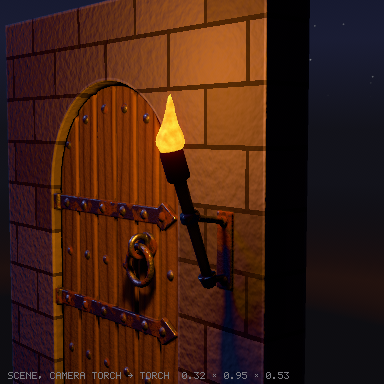
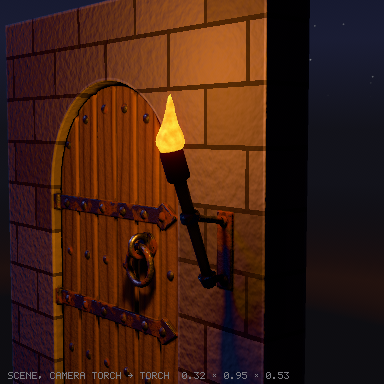
Regenerate the renders the three stage 5 branches touch together, and record their blind re-read
The wear branch rubs worn metal to satin scuffs, the engrave branch dims a
light's highlight where the field bends, and the teapot branch opens the spout
and joins the handle. Each regenerated its own renders against the renderer it
started from, so the lantern, the door's three shots and the teapot are drawn
again here under all three changes at once; every other render came out byte
for byte as the branches committed it.

design.md's "Read blind" now records the re-read of each answer: the door's
studs and ring read as one old rusty iron with its straps, the lantern reads
old and rusting but its flat iron, the roof above all, is still light and
silvery, and the ring's FOREVER is darker marks but no letters on either
side. The text() sentence there is in the past tense, since 55de603 fixed it.
The roadmap's round 12 paragraph says what was answered and what stays open,
and three defects the tracks found and left are listed among the smaller
items. The guide and skill gain a row for a part lost among a polished
bowl's reflections, measured on the mixer at rough 0.4.

Claude-Session: https://claude.ai/code/session_018T6HA68DSEEiuDRQLT4RUV

diff --git a/docs/design.md b/docs/design.md
@@ -1233,9 +1233,10 @@ Both renders shared some misreadings: the hardware chain's six links
 read as four, the ring's chrome inlay as a reflection and its round cup
 as a box, the teapot's capped handle as an open tube, the door's walnut
 torch handle as black iron, the medal's brass letters as gold, and the
-straw below the drink was not seen at all. One shared misreading is the
-language's, not the renderer's: both show the medal's lower legend
-mirror-reversed, because that is what `text()` builds on a negative arc.
+straw below the drink was not seen at all. One shared misreading was the
+language's, not the renderer's: both showed the medal's lower legend
+mirror-reversed, because that is what `text()` built on a negative arc
+until 55de603, which bends it upright and left to right.
 Two of the teapot's answers were about its model, not the renderer: its
 handle stopped short of the pot, so the free, flat end the reader took
 for an open tube was there to be seen, and its spout, which the reader
@@ -1258,8 +1259,43 @@ before the legibility pass, had read the same frame as white enamel. No
 count or lettering was read wrongly from the new render alone, and the
 one count that differed between the two, the bands on the tumbler's
 straw, the new render got right. The two pairs and the lantern's iron
-are left open; the plan's next step for legibility is a dogfooding round
+were left open; the plan's next step for legibility is a dogfooding round
 that judges the renders.
+
+Three of the misses were answered before that round, and the models they
+touch were read blind again the same way, each pair setting the render
+at 67ba88d against the answer's:
+
+- **Worn metal** (the lantern and the door). `wear` now rubs a metal's
+  edge to satin and breaks it into scuffs, fewer on a thin part ("The
+  finish, and the maps that carry it"). Nothing was read wrongly from the new
+  render alone. The door's studs and knocker ring, read as "clean,
+  polished or oiled" and "newer" than the straps at 67ba88d, now read as
+  one old rusty iron with them. The lantern reads old and rusting all
+  over, its frame one metal and "much less chrome-like", but its bare
+  metal is "still bright and silvery", hedged as rusted steel or
+  galvanised. That is the flat faces, which wear never touches: the roof,
+  the largest iron in the picture, is the rust preset's dark iron
+  (F0 0.20, rough 0.55) taking the studio's overhead strip, and is as
+  light at wear 0. The lantern's iron is still open.
+- **The faint engraving** (the ring, with the medal and the nameplate as
+  controls). A light's highlight now takes the cavity term where the
+  field bends ("The BRDF is the viewer's"), so a groove's lips stop
+  glinting. Every changed pixel in the three pairs got darker. The
+  lettering read as well on both sides of every pair: AIXLE MODELS / FOR
+  MACHINES 22 of 22, Ada Lovelace / Analyst 18 of 18, and the ring's
+  FOREVER 0 of 7 on both. Nothing was read wrongly from the new render
+  alone. The ring's inscription is about 50 by 5 pixels at 384, its
+  strokes 1.75 cells wide: darker marks, but not letters. The reader,
+  forced to choose, preferred the old side's thinner marks, and on the
+  nameplate offered "black infill" for grooves that are bare brass, which
+  is the risk of an engraving that reads as dark marks. The guide's row
+  for sparkling letters gives a satin finish or strokes about three cells
+  wide, measured on the ring.
+- **The teapot** is the model's fix described above.
+
+The mixer's beater among its bowl's reflections is not a renderer fault:
+a bowl at `rough` 0.2 mirrors what it holds. The guide has a row for it.
 
 ## Minecraft geometry
 

diff --git a/docs/agent-guide.md b/docs/agent-guide.md
@@ -216,6 +216,7 @@ mesh; `--no-cache` samples afresh.
 | chrome, silver or steel reads near white | `overcast` is a white sky all round, with no dark room for a mirror to show (steel near white on faces turned up) | the `studio`, `sunset` or `night` for a mirror metal, or a rougher one |
 | metal lettering, or a metal face turned to the camera, reads dark, nearly black | a metal face turned to the camera mirrors the dark room behind the camera (the patterns plate's iron labels were lost on their dark board) | paint the letters a non-metal (the plate's are porcelain now), or turn the face towards the light |
 | a polished engraving is faint, read only at its edges, or its letters sparkle | a polished face and the floor of its letters mirror the same room, so only the walls and the cavity term (the field's occlusion within about six cells, which dims the reflections in a groove and the lights' highlights on its lips and corners) set the letters apart; a lip out in the open that faces a light still glints | `rough=0.2` or more, or cut the letters deeper; letters that sparkle want a satin finish or bolder strokes, not a deeper cut: round 10's ring's gold FOREVER, strokes 1.75 cells wide and 2.9 deep, sparkled at gold's `rough` of 0.3 and read as dark letters at `material("gold", rough=0.5)` or with strokes 2.9 cells wide (larger letters if their counters close), and cut twice as deep it read as before |
+| a part inside a polished bowl or tray is hard to pick out | a polished curved wall mirrors what it holds and the room round it, so the part stands among copies of itself (round 11's mixer: its beater among the reflections of its steel bowl at `rough=0.2`) | that is the metal reading as metal; a satin finish blurs the copies away, and at `material("steel", rough=0.4)` the mixer's beater, its shaft and its hub read on their own against the bowl; or judge the part from a `camera(..., focus="beater")` shot |
 | a point light's pool on a wall or the floor is wider than expected | its strength halves `range` away in linear light, which shows wider than the old renderer's pool did (a torch lights more of a wall) | a `range` about the size of what it should light, and more `power` to keep the near side as lit; its sphere is 0.02 × `range` × `size`, so raise `size` as `range` falls to keep its shadows as soft (the lantern's flame: `range=0.8, size=1.75, power=1.6`) |
 | a soft shadow is too hard or too soft | a light's `size` is an angle: its angular radius is size/18 radians (1 about 3.2 degrees, 3 about 9.5), and that one angle softens its shadow, widens its highlight and sizes its softbox in a mirror; a point light is a sphere whose radius is 2% of its `range` per unit of size | a larger `size` for a softer shadow (3 a window), a smaller one for a harder (0.5 a lamp); a shadow hardens anyway where a part meets the floor |
 | a plan shot's blind holes read as domes or bumps | a hole lit from the frame's bottom reads as a dome: people see a picture as lit from above (round 10's hub, whose plan shot keeps its own key at azimuth -40) | with no `light()` and no `set light_azimuth` or `light_elevation`, a camera above elevation 55 turns the default key towards the frame's top left itself (all the way at 75); with your own lights, put the key at the camera's azimuth less 135 (`light("key", azimuth=-135, elevation=55)` for `camera("plan", azimuth=0, elevation=90)`) |

diff --git a/docs/roadmap.md b/docs/roadmap.md
@@ -1231,7 +1231,12 @@ lantern's worn rusty iron read as polished chrome, because `wear` rubs a
 thin part bright all round and the new render draws bare polished iron
 as steel. What it found that the language got wrong, text() mirroring
 lettering under an arc, is fixed. The worn metal and the faint engraving
-are being answered before this round, so the round tests the fixes.
+were answered before this round and read blind again (design.md, the end
+of "Read blind"): worn studs, rings and bars now read as old rusty iron,
+and a polished engraving's lips no longer glint. Two things stayed open:
+the lantern's flat iron faces still read as light, silvery metal under
+the studio's overhead strip, and the ring's FOREVER, 50 by 5 pixels at
+384, is darker marks but still no letters. The round tests the fixes.
 
 **What.** A round of four fresh agents, briefed as `dogfood/README.md`
 describes, each brief chosen to need what the redesign changed:
@@ -1574,6 +1579,21 @@ occlusion (design.md, "A grid over the pieces").
   record of shapes is never taken for a shape. The workshop example
   carries its bench's size in one and renders byte for byte as before.
   Not built: string keys, and iterating a record's fields.
+- Found while answering the blind check, not fixed:
+  - A field that is a bound (a scaled shape) reads as a hollow to the
+    cavity term, so its reflections are dimmed in open air: K is 0.53 to
+    0.64 on the Roblox wings' scaled-sphere boss, about 15 to 26% off
+    since the kernel, and the cafe set's scaled rug is the same. The bend
+    gate keeps it off the highlights (12% at the boss's peak). A fix
+    would measure the occlusion against the gradient's length.
+  - The steps sheet truncates a step's name but not its size-and-tag
+    line, so a cut with three two-decimal sizes runs into the next
+    caption (the teapot's `bore` reads "CUT2.26"). Scanned over all 126
+    programs, 140 step captions overflow. A fix moves about 60 steps
+    sheets.
+  - When `void()` fails it can name the cutter's step for a solid point
+    (a pot unioned after its bored spout is reported "in 'bore'"): the
+    attribution prefers a cutter whose volume holds the point.
 
 ## What was considered and set aside
 

diff --git a/.claude/skills/aixle/SKILL.md b/.claude/skills/aixle/SKILL.md
@@ -302,6 +302,7 @@ show arm
 | chrome, silver or steel reads near white | `overcast` is the white sky for mirror metals | `studio`, `sunset` or `night` for a mirror, or a rougher metal |
 | metal lettering or a metal face turned to the camera reads dark | it mirrors the dark room behind the camera (the patterns plate's iron labels) | paint the letters a non-metal, or turn the face towards the light |
 | a polished engraving is faint, or sparkles | face and groove floor mirror the same room; only the walls and the cavity term (a groove's reflections and the highlights on its lips dimmed) tell them apart; an open lip facing a light still glints | `rough=0.2` or more, or cut it deeper; for sparkling letters a satin finish (`material("gold", rough=0.5)`) or strokes about 3 cells wide, since a cut deeper than about 3 cells adds nothing |
+| a part inside a polished bowl is hard to pick out | a polished curved wall mirrors what it holds (round 11's mixer: its beater among its steel bowl's reflections at `rough=0.2`) | that is metal reading as metal; a satin bowl, `material("steel", rough=0.4)`, blurs the copies away, or a `camera(..., focus=...)` shot judges the part |
 | a point light's pool is wider than expected | its strength halves `range` away in linear light, which shows wide | a `range` about the size of what it should light, more `power`, and `size` up as `range` falls to keep the shadows soft |
 | a soft shadow is too hard or too soft | `size` is an angle: an angular radius of size/18 radians (1 about 3.2 degrees, 3 about 9.5) for the shadow, the highlight and the softbox | a larger `size` is softer (3 a window), a smaller harder (0.5 a lamp) |
 | a night scene is black; a low shot looks down | `night` cuts the ambient; elevation is about the centre | `set ambient 1.6`; `elevation=-8`; a glow lights only itself, so a lamp or a fire lighting its neighbours is `light(..., position=[x, y, z], range=2)` just outside it |
